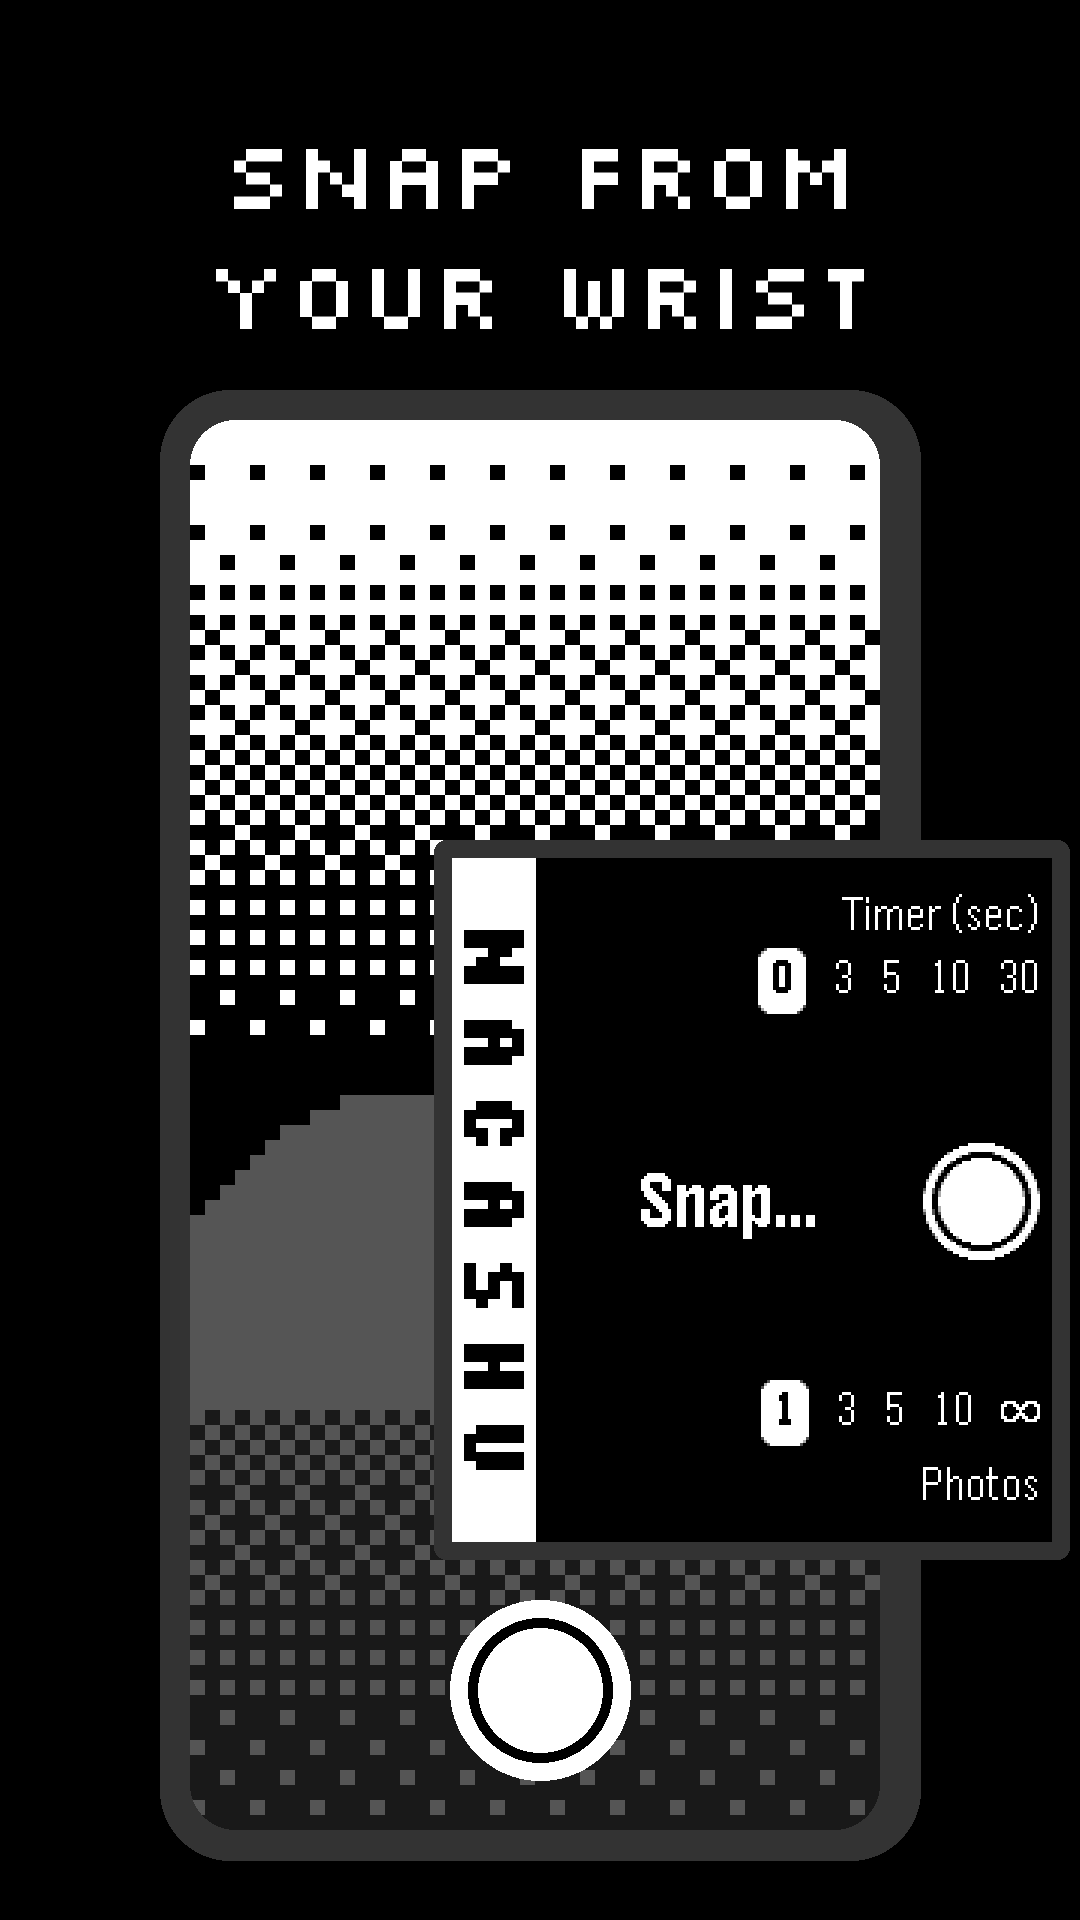
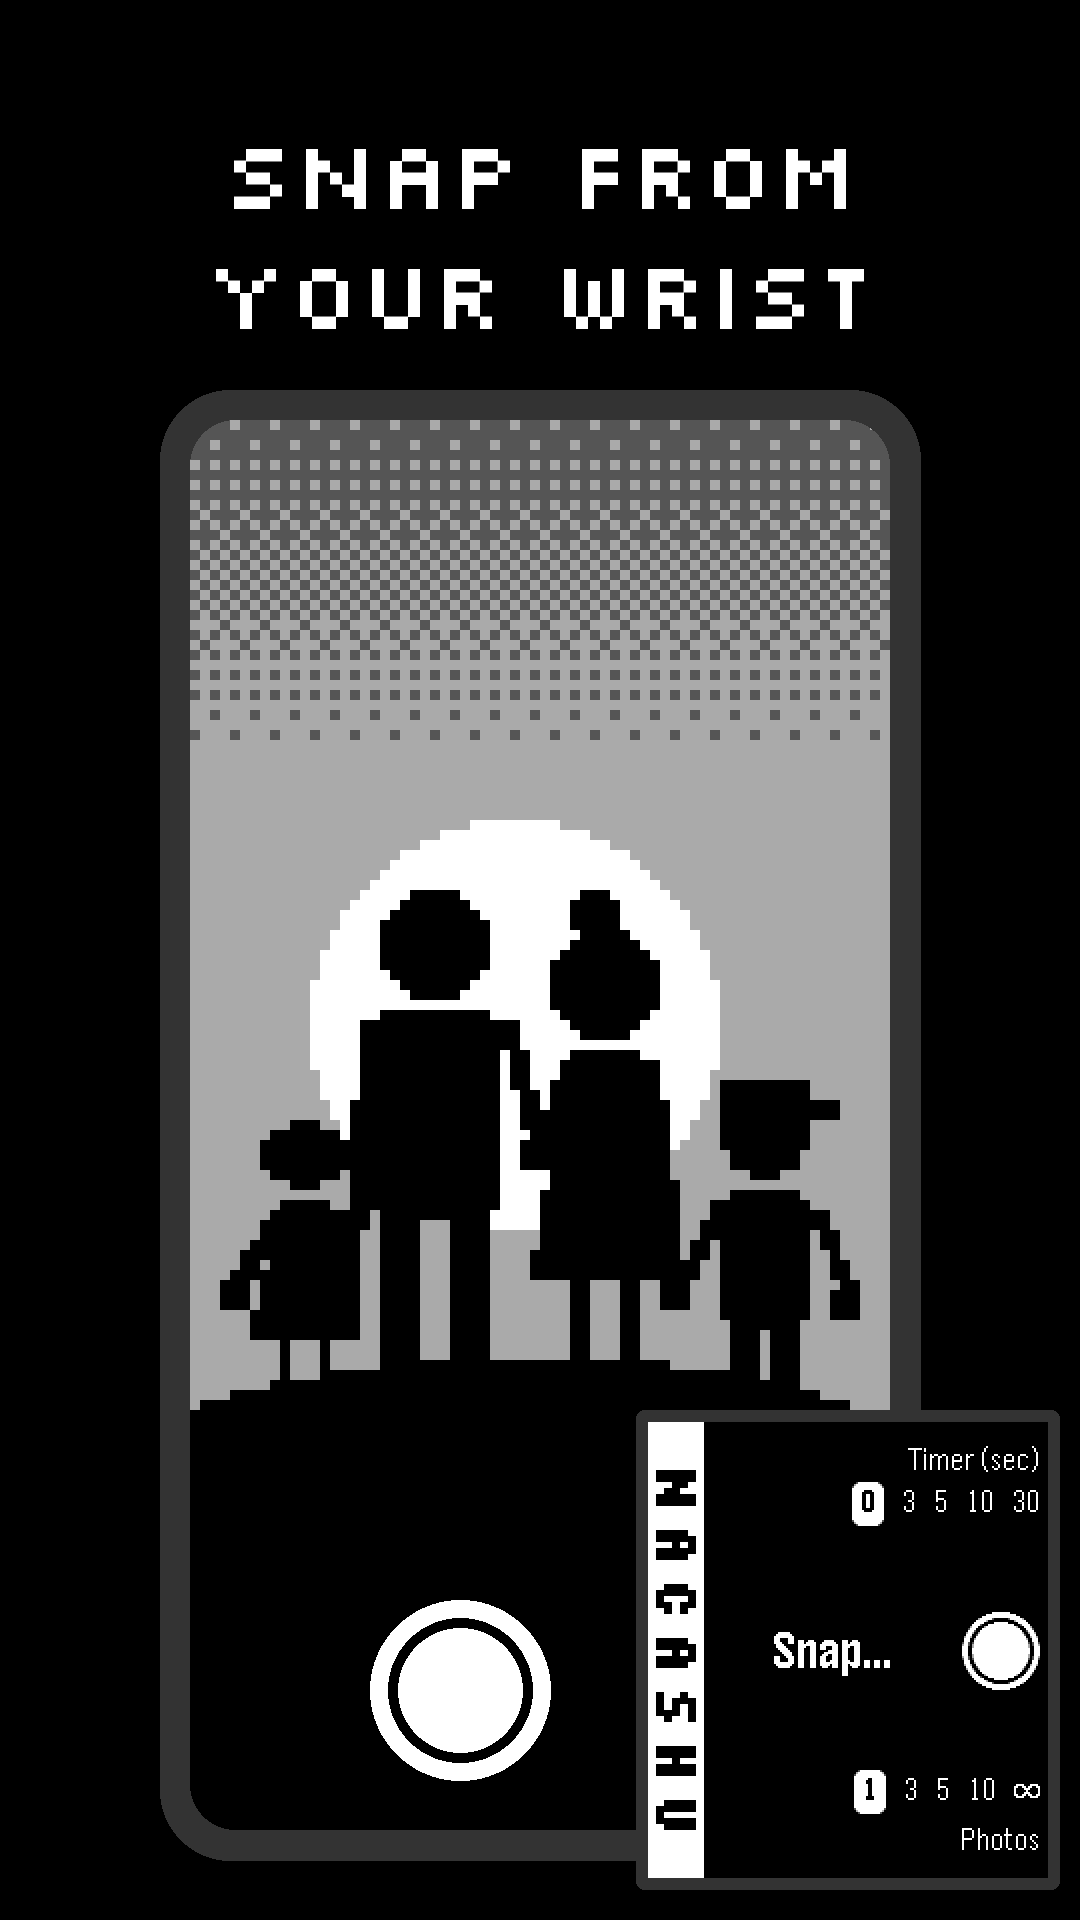
Show a family photo in Play screenshot 1
1-snap now shows a family of four as pictograms holding hands on a hill,
with the sun behind them, so the store listing says "get everyone in the
photo" instead of repeating screenshot 3's mountain. The watch is drawn
smaller in the bottom right corner (and the shutter moves left) to give
the viewfinder more room. Drawn by make_store_images.py like the rest.

RELEASING.md: phone captures are cropped to 2:1 or shorter, not 9:16.

Claude-Session: https://claude.ai/code/session_016qf2GfUNUhdNcdQ5UVbLnA

diff --git a/watch/tools/make_store_images.py b/watch/tools/make_store_images.py
@@ -17,6 +17,7 @@ pixel_font, sans_font = sys.argv[1], sys.argv[2]
 out = Path(sys.argv[3]) if len(sys.argv) > 3 else ROOT / "fastlane/metadata/android/en-US/images"
 
 BLACK, WHITE, GREY, DARK = (0, 0, 0), (255, 255, 255), (85, 85, 85), (51, 51, 51)
+LIGHT = (170, 170, 170)
 BAYER = [[0, 8, 2, 10], [12, 4, 14, 6], [3, 11, 1, 9], [15, 7, 13, 5]]
 
 
@@ -69,6 +70,80 @@ def scene(w, h, cell):
     return small.resize((gw * cell, gh * cell), Image.NEAREST)
 
 
+def family(w, h, cell):
+    """A family of four as pictograms (round heads, A-line dresses, a cap, a bob, a bun), holding
+    hands on a hill, with a big white sun behind them. Drawn on a grid of cell px squares."""
+    gw, gh = w // cell, h // cell
+    small = Image.new("RGB", (gw, gh), LIGHT)
+    px, d = small.load(), ImageDraw.Draw(small)
+    for y in range(36):  # dithered sky fading into the flat pale band behind the people
+        for x in range(gw):
+            px[x, y] = LIGHT if 0.05 + 0.95 * y / 36 > BAYER[y % 4][x % 4] / 16 else GREY
+
+    def disc(cx, cy, r, colour=BLACK):
+        d.ellipse((cx - r, cy - r, cx + r, cy + r), fill=colour)
+
+    def box(x0, y0, x1, y1):
+        d.rectangle((x0, y0, x1, y1), fill=BLACK)
+
+    def arm(a, b):
+        d.line((a[0], a[1], b[0], b[1]), fill=BLACK, width=2)
+
+    def ground(x):
+        return 94 + int(((x - 33) / 33) ** 2 * 5)
+
+    disc(32, 60, 20, WHITE)
+    for x in range(gw):
+        d.line((x, ground(x), x, gh), fill=BLACK)
+
+    def person(cx, kind, height):
+        """Feet planted 3 cells into the hill. Returns the left and right shoulder points."""
+        r, body, shoulder, hem = {"man": (5, 0.40, 6, 6), "woman": (5, 0.48, 3, 7),
+                                  "boy": (4, 0.40, 4, 4), "girl": (3, 0.44, 2, 5)}[kind]
+        feet = ground(cx) + 3
+        head = feet - height + r
+        top = head + r + 2  # a 1-cell gap between head and body, as on a sign
+        legs = top + round(height * body)
+        disc(cx, head, r)
+        if kind == "boy":  # cap: flat crown, 2-cell brim, a gap under the brim
+            box(cx - r, head - r - 1, cx + r, head - 2)
+            box(cx, head - 3, cx + r + 3, head - 2)
+            d.rectangle((cx + r + 1, head - 1, cx + r + 3, head), fill=LIGHT)
+        if kind == "woman":  # bun
+            d.ellipse((cx - 3, head - r - 4, cx + 1, head - r), fill=BLACK)
+        if kind == "girl":  # bob
+            d.rounded_rectangle((cx - r - 1, head - r + 1, cx + r + 1, head + r - 1), radius=2, fill=BLACK)
+        if kind in ("man", "boy"):
+            d.rounded_rectangle((cx - shoulder, top, cx + shoulder, legs), radius=2, fill=BLACK)
+            box(cx - shoulder + 1, legs, cx - 2 + (kind == "boy"), feet)
+            box(cx + 1 + (kind != "boy"), legs, cx + shoulder - 1, feet)
+        else:
+            for i in range(legs - top + 1):
+                half = shoulder + (hem - shoulder) * i / (legs - top)
+                box(round(cx - half), top + i, round(cx + half), top + i)
+            if kind == "woman":
+                box(cx - 3, legs, cx - 2, feet)
+                box(cx + 2, legs, cx + 3, feet)
+            else:
+                box(cx - 2, legs, cx - 2, feet)
+                box(cx + 2, legs, cx + 2, feet)
+        return (cx - shoulder, top + 1), (cx + shoulder, top + 1)
+
+    people = [person(11, "girl", 29), person(24, "man", 50), person(41, "woman", 46), person(57, "boy", 32)]
+    for (_, right), (left, _) in zip(people, people[1:]):  # hand in hand
+        hx, hy = (right[0] + left[0]) // 2, max(right[1], left[1]) + 9
+        arm((right[0] + 1, right[1]), (hx, hy))
+        arm((left[0] - 1, left[1]), (hx, hy))
+        box(hx - 1, hy - 1, hx + 1, hy + 1)
+    (x, y), _ = people[0]  # the free arms angle out from the shoulder
+    arm((x - 1, y + 1), (x - 5, y + 7))
+    box(x - 6, y + 7, x - 4, y + 9)
+    _, (x, y) = people[-1]
+    arm((x + 1, y + 1), (x + 4, y + 9))
+    box(x + 3, y + 9, x + 5, y + 11)
+    return small.resize((gw * cell, gh * cell), Image.NEAREST)
+
+
 def ink_left(text, f):
     """How far right of x the first lit pixel of text lands (the font's left side bearing)."""
     probe = Image.new("L", (int(f.getlength(text)) + 200, f.size * 2))
@@ -81,7 +156,9 @@ def centred(d, y, text, f, w, fill=WHITE):
     d.text((x, y), text, font=f, fill=fill)
 
 
-def phone_screenshot(lines, shot, path, round_screen=False):
+def phone_screenshot(lines, shot, path, round_screen=False, view=None):
+    """view draws the camera viewfinder. With one, the watch is drawn smaller in the bottom right
+    corner (and the shutter moves left) so more of the view shows."""
     W, H = 1080, 1920  # 9:16; Play rejects anything longer than 2:1
     img = Image.new("RGB", (W, H), BLACK)
     d = ImageDraw.Draw(img)
@@ -91,17 +168,22 @@ def phone_screenshot(lines, shot, path, round_screen=False):
     # Phone running the camera app.
     px, py, pw, ph = 160, 390, 760, 1470
     d.rounded_rectangle((px, py, px + pw, py + ph), radius=70, fill=DARK)
-    view = scene(pw - 60, ph - 60, 15)
+    small_watch = view is not None
+    view = view(pw - 60, ph - 60, 10) if small_watch else scene(pw - 60, ph - 60, 15)
     mask = Image.new("L", view.size, 0)
     ImageDraw.Draw(mask).rounded_rectangle((0, 0, view.width - 1, view.height - 1), radius=45, fill=255)
     img.paste(view, (px + 30, py + 30), mask)
-    cx, cy = px + pw // 2, py + ph - 170
+    cx, cy = px + pw // 2 - (80 if small_watch else 0), py + ph - 170
     d.ellipse((cx - 90, cy - 90, cx + 90, cy + 90), fill=WHITE)
     d.ellipse((cx - 72, cy - 72, cx + 72, cy + 72), fill=BLACK)
     d.ellipse((cx - 62, cy - 62, cx + 62, cy + 62), fill=WHITE)
     # The watch, overlapping the phone's right edge.
-    w = watch(screen(shot, 3), 3, round_screen)
-    img.paste(w, (W - w.width - 10, py + ph - w.height - 300), w)
+    if small_watch:
+        w = watch(screen(shot, 2), 2, round_screen)
+        img.paste(w, (W - w.width - 20, H - w.height - 30), w)
+    else:
+        w = watch(screen(shot, 3), 3, round_screen)
+        img.paste(w, (W - w.width - 10, py + ph - w.height - 300), w)
     img.save(path, optimize=True)
 
 
@@ -197,7 +279,7 @@ out.mkdir(parents=True, exist_ok=True)
 (out / "phoneScreenshots").mkdir(exist_ok=True)
 Image.open(DOCS / "icon.png").convert("RGB").resize((512, 512), Image.NEAREST).save(out / "icon.png", optimize=True)
 feature_graphic(out / "featureGraphic.png")
-phone_screenshot(["SNAP FROM", "YOUR WRIST"], "emery-2-snap", out / "phoneScreenshots/1-snap.png")
+phone_screenshot(["SNAP FROM", "YOUR WRIST"], "emery-2-snap", out / "phoneScreenshots/1-snap.png", view=family)
 phone_screenshot(["YOUR PHONE'S", "NATIVE CAMERA"], "gabbro-1-ready", out / "phoneScreenshots/3-processing.png", round_screen=True)
 def pebble_icon(size, path, invert=False):
     """The 32x32 icon at the biggest whole-number scale that fits, centred on a square of size.

diff --git a/RELEASING.md b/RELEASING.md
@@ -21,7 +21,7 @@ The listing lives in `fastlane/metadata/android/en-US/` in the layout [fastlane 
 | `images/featureGraphic.png` | Feature graphic | 1024 x 500 PNG |
 | `images/phoneScreenshots/` | Phone screenshots | 2 to 8 |
 
-`icon.png`, `featureGraphic.png` and the watch screenshots (`1-` to `3-`) are drawn from `docs/icon.png` and the watchapp screenshots in `docs/` by `watch/tools/make_store_images.py`. Run it again when the watchapp's look changes: `python3 watch/tools/make_store_images.py Silkscreen-Regular.ttf Inter-SemiBold.otf`. The same script also draws `docs/header.png` (top of the README) and `docs/pebble-banner.png` (the 720 x 320 Pebble appstore banner) and its icons (`docs/pebble-icon-80.png`, `docs/pebble-icon-144.png`, and the inverted `docs/inverted-pebble-companion-icon-144.png` for the companion app). Phone app screenshots (`4-` onwards) are real captures from a phone, cropped to 9:16 (Play rejects screenshots longer than 2:1, and a Pixel 10 Pro capture is about 2.2:1).
+`icon.png`, `featureGraphic.png` and the watch screenshots (`1-` to `3-`) are drawn from `docs/icon.png` and the watchapp screenshots in `docs/` by `watch/tools/make_store_images.py`. Run it again when the watchapp's look changes: `python3 watch/tools/make_store_images.py Silkscreen-Regular.ttf Inter-SemiBold.otf`. The same script also draws `docs/header.png` (top of the README) and `docs/pebble-banner.png` (the 720 x 320 Pebble appstore banner) and its icons (`docs/pebble-icon-80.png`, `docs/pebble-icon-144.png`, and the inverted `docs/inverted-pebble-companion-icon-144.png` for the companion app). Phone app screenshots (`4-` onwards) are real captures from a phone, cropped to 2:1 or shorter (Play rejects anything longer, and a Pixel 10 Pro capture is about 2.2:1).
 
 Keep "Pebble" out of the app name (Pebble's trademark rules); saying the app works with Pebble watches in the description is fine.
 
